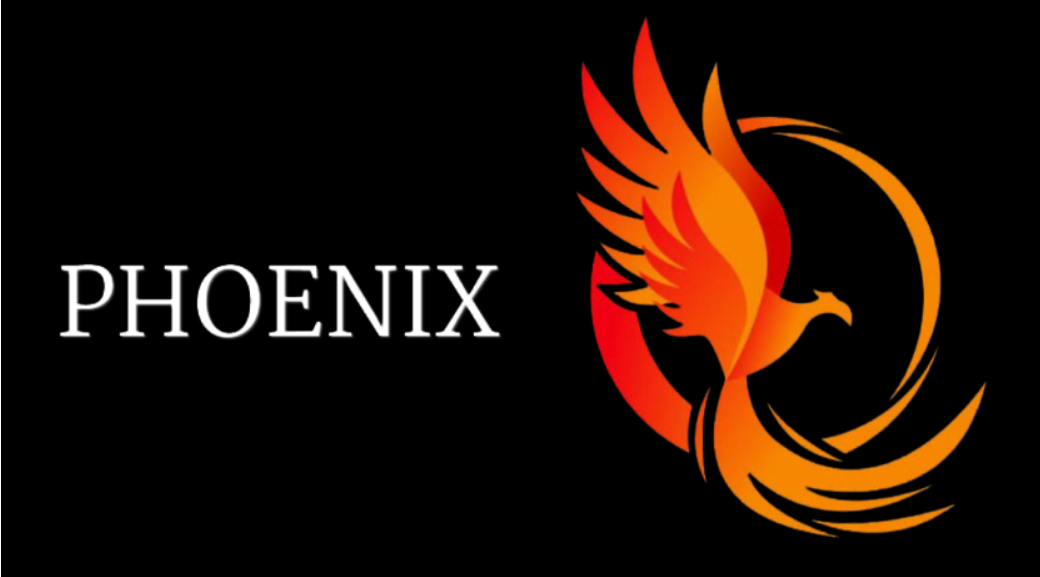
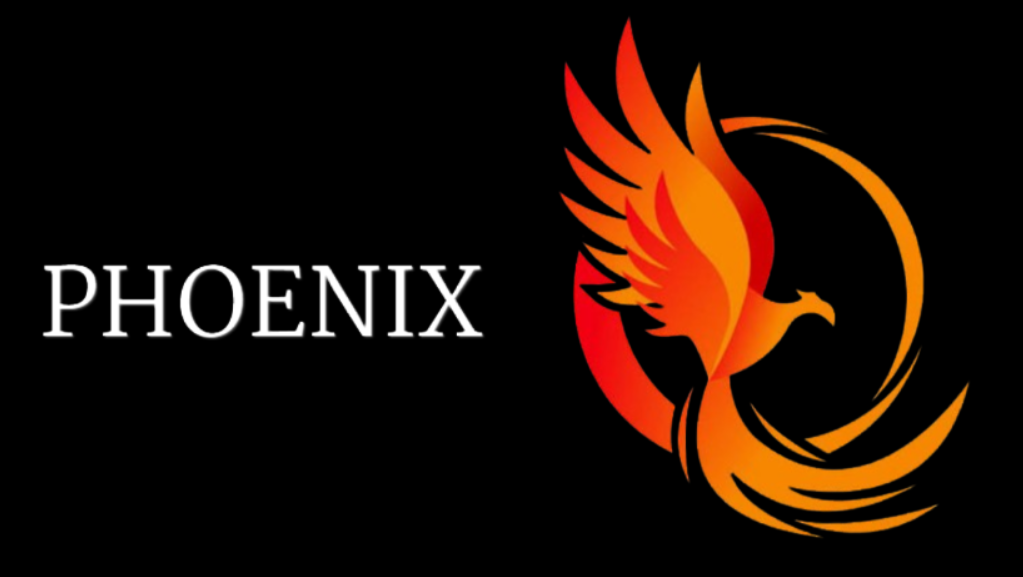
Update research and projects covers

diff --git a/src/App.jsx b/src/App.jsx
@@ -8,6 +8,7 @@ const projects = [
     tags: ['PyTorch', 'TensorFlow', 'NumPy', 'CUDA', 'OpenCV'],
     art: 'network',
     cover: `${import.meta.env.BASE_URL}phoenix-cover.png`,
+    coverFit: 'phoenix',
     href: 'https://vimeo.com/1240535601',
   },
   {
@@ -31,10 +32,11 @@ const projects = [
   },
   {
     title: 'Distracted Drivers Detection System',
-    kind: 'Utilized transfer learning with the VGG19 framework and custom CNNs to process live video feed and flag inattentive drivers and unsafe behaviors. Achieved an accuracy of 93% from limited data sources through data augmentation and implemented saliency maps to only analyze useful pixels, such as those describing the hands and eyes, preserving user privacy',
+    kind: 'Utilized transfer learning with the VGG19 framework and custom CNNs to process live video feed and flag inattentive drivers and unsafe behaviors. Achieved an accuracy of 93% from limited data sources through data augmentation and implemented saliency maps to only analyze useful pixels, such as those describing the hands and eyes, preserving user privacy.',
     tags: ['React', 'TypeScript', 'Python', 'FastAPI', 'PostgreSQL', 'D3.js'],
     art: 'analytics',
-    href: '#contact', // Replace with this project's demo, source code, or presentation URL.
+    cover: `${import.meta.env.BASE_URL}distracted-drivers-cover.png`,
+    href: 'https://docs.google.com/presentation/d/1Ujiju-2A2JLKRG2gHLWMw58_ODTBZsI_uwVaDte5w5I/edit?usp=sharing', // Replace with this project's demo, source code, or presentation URL.
   },
   {
     title: 'EcoTrain',
@@ -492,11 +494,13 @@ function ProjectsSection() {
                 </a>
               </div>
               <p>{project.description || project.kind}</p>
+              {/* Uncomment this block to show project tools and languages again.
               <div className="tag-list">
                 {project.tags.map((tag) => (
                   <span key={tag}>{tag}</span>
                 ))}
               </div>
+              */}
             </div>
           </article>
         ))}
@@ -542,10 +546,21 @@ function ExperienceSection() {
   )
 }
 
-function ResearchCard({ art, title, role, children }) {
+function ResearchCard({ art, cover, coverPosition, coverSize, title, role, children }) {
   return (
     <article className="research-card">
-      <div className={`research-art ${art}`}>
+      <div
+        className={`research-art ${art}${cover ? ' has-cover' : ''}`}
+        style={
+          cover
+            ? {
+                backgroundImage: `url(${cover})`,
+                backgroundPosition: coverPosition || 'center center',
+                backgroundSize: coverSize || 'cover',
+              }
+            : undefined
+        }
+      >
         <h3>{title}</h3>
       </div>
       <div className="research-copy">
@@ -577,6 +592,9 @@ function ResearchAndAwardsSection() {
         <SectionHeading icon="flask">Featured Research</SectionHeading>
         <ResearchCard
           art="chip-art"
+          cover={`${import.meta.env.BASE_URL}mars-research-cover.png`}
+          coverPosition="center 35%"
+          coverSize="110% auto"
           title="Why Message Passing Fails on Functional Connectomes: A Mechanistic Study of Node-Feature Redundancy"
           role="MODEL ARCHITECTURE LEAD"
         >
@@ -584,6 +602,7 @@ function ResearchAndAwardsSection() {
         </ResearchCard>
         <ResearchCard
           art="green-art"
+          cover={`${import.meta.env.BASE_URL}invasive-species-research-cover.png`}
           title="Analysis of Weather on Area Vulnerability to Invasive Species"
           role="LEAD RESEARCHER"
         >
@@ -591,6 +610,8 @@ function ResearchAndAwardsSection() {
         </ResearchCard>
         <ResearchCard
           art="green-art"
+          cover={`${import.meta.env.BASE_URL}connectomes-research-cover.png`}
+          coverSize="90% auto"
           title="A Pressure-Self-Energizing Structural Interface for Modular Martian Habitats"
           role="COMPUTATIONAL & ENGINEERING LEAD"
         >
@@ -639,6 +660,7 @@ function EducationSection() {
           <div>
             <span className="eyebrow muted">CORE METRICS</span>
             <div className="metrics">
+              {/* Uncomment these metric blocks to show GPA again.
               <div className="metric">
                 <span>Weighted GPA</span>
                 <strong className="blue">4.48</strong>
@@ -647,6 +669,7 @@ function EducationSection() {
                 <span>Unweighted GPA</span>
                 <strong>3.98</strong>
               </div>
+              */}
               <div className="metric wide">
                 <span>Standardized ACT Score</span>
                 <strong className="cyan">35</strong>

diff --git a/src/App.css b/src/App.css
@@ -529,6 +529,11 @@
   object-position: center 85%;
 }
 
+.project-cover-image-phoenix {
+  object-fit: contain;
+  object-position: center;
+}
+
 .project-cover-image-bright {
   filter: brightness(1.18);
 }
@@ -868,6 +873,10 @@
   position: absolute;
   inset: 0;
   background: linear-gradient(0deg,#00121ee8,transparent 70%);
+}
+
+.research-art.has-cover:after {
+  display: none;
 }
 
 .chip-art {
@@ -1466,6 +1475,10 @@
 
   .project-art {
     height: 230px;
+  }
+
+  .project-cover-image-phoenix {
+    object-fit: contain;
   }
 
   .project-info>p {
